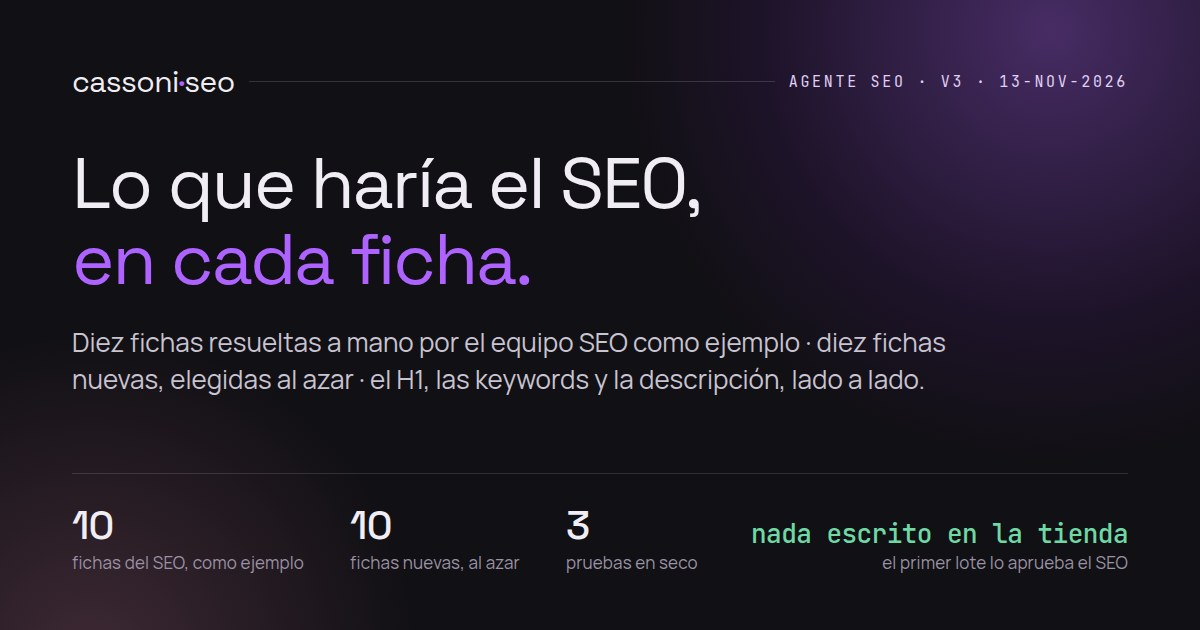
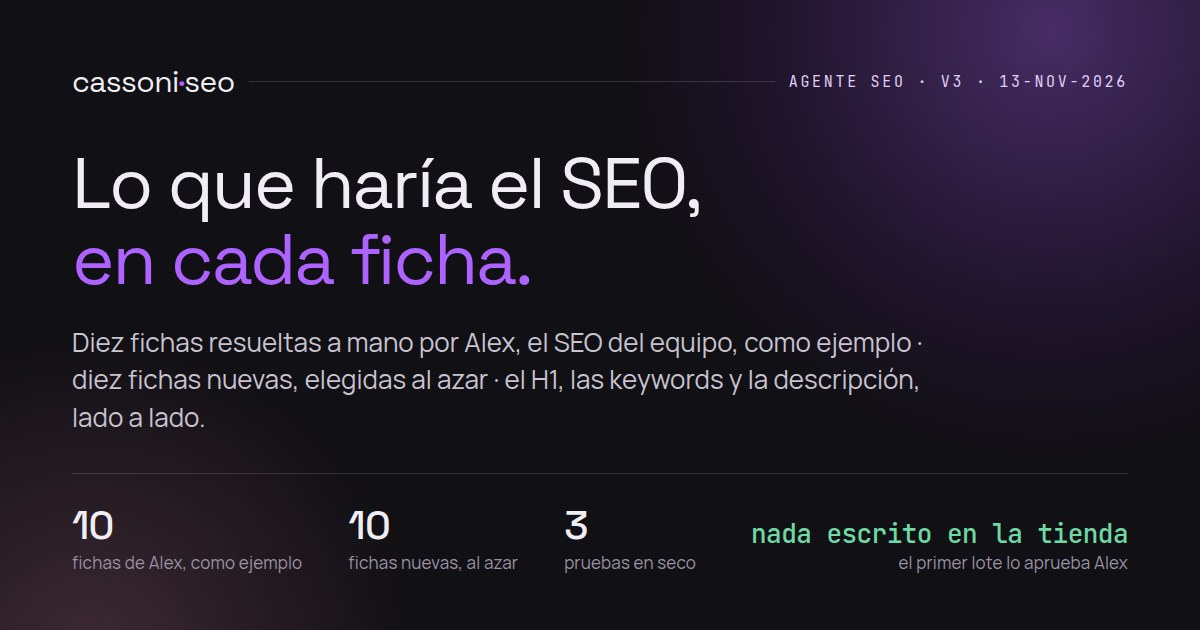
La landing nombra a Alex: ocho frases que decían «el SEO» ahora lo nombran, con candado
Decisión de Antonio para que el material no le hable de lejos al SEO del equipo: se lo nombra en
la primera mención, en el veredicto del 6-nov, en el documento que sirve de ejemplo, en el próximo
paso y en el cierre. En el recorrido y en la lista de comandos queda «el SEO» como rol, donde
repetir el nombre cansa.

- tools/marca/armar_landing.py: las 8 sustituciones van listadas en SUSTITUCIONES, con el texto
  exacto y assert de que cada una aparece una sola vez; el armado falla si alguna cambió.
- docs/landing-agente/index.html: regenerado desde el original (no editado a mano).
- tools/marca/og-landing.html + og.jpg: la tarjeta también lo nombra (bajada y pie del cuarto dato).
- tests/test_og_landing.py: candado nuevo (nombra a Alex >= 8 veces, no vuelve «el equipo SEO
  resolvió» ni «el próximo paso: que el SEO resuelva», y el rol sigue en el recorrido).
  RED guardado en evidencia/2026-11-13-nombre-alex-RED.txt: corrido contra la landing v2 falla 2
  de 5 casos, o sea que el candado puede fallar.
- docs/landing-agente/LEEME.md: queda anotado qué se sustituyó y dónde.

Verificado: verify.sh VERDE (231 tests + 4 de doc + secretos); publicado en
tarsterminal.duckdns.org/cassoni-agente-seo/ con md5 servido idéntico al del repo
(index 56cf874f..., og.jpg c2ed9411...) y el centinela «Alex, el SEO del equipo, resolvió 10
fichas a mano» presente en lo servido.

diff --git a/docs/landing-agente/index.html b/docs/landing-agente/index.html
@@ -4,7 +4,7 @@
 <meta name="viewport" content="width=device-width, initial-scale=1, viewport-fit=cover">
 <meta charset="utf-8">
 <title>Agente SEO Cassoni · v3 — lo que haría el SEO en cada ficha</title>
-<meta name="description" content="El equipo SEO resolvió 10 fichas a mano. El agente aprende de esas fichas y hace lo mismo con diez que nadie había mirado: tres pruebas en seco, las fichas lado a lado.">
+<meta name="description" content="Alex, el SEO del equipo, resolvió 10 fichas a mano. El agente aprende de esas fichas y hace lo mismo con diez que nadie había mirado: tres pruebas en seco, las fichas lado a lado.">
 <meta name="robots" content="noindex">
 <meta name="theme-color" content="#111014">
 <link rel="icon" href="favicon.svg" type="image/svg+xml">
@@ -13,15 +13,15 @@
 <meta property="og:locale" content="es_UY">
 <meta property="og:url" content="https://tarsterminal.duckdns.org/cassoni-agente-seo/">
 <meta property="og:title" content="Agente SEO Cassoni · v3 — lo que haría el SEO en cada ficha">
-<meta property="og:description" content="El equipo SEO resolvió 10 fichas a mano. El agente aprende de esas fichas y hace lo mismo con diez que nadie había mirado: tres pruebas en seco, las fichas lado a lado.">
+<meta property="og:description" content="Alex, el SEO del equipo, resolvió 10 fichas a mano. El agente aprende de esas fichas y hace lo mismo con diez que nadie había mirado: tres pruebas en seco, las fichas lado a lado.">
 <meta property="og:image" content="https://tarsterminal.duckdns.org/cassoni-agente-seo/og.jpg">
 <meta property="og:image:type" content="image/jpeg">
 <meta property="og:image:width" content="1200">
 <meta property="og:image:height" content="630">
-<meta property="og:image:alt" content="Lo que haría el SEO, en cada ficha: diez fichas del SEO contra diez fichas nuevas">
+<meta property="og:image:alt" content="Lo que haría el SEO, en cada ficha: diez fichas de Alex contra diez fichas nuevas">
 <meta name="twitter:card" content="summary_large_image">
 <meta name="twitter:title" content="Agente SEO Cassoni · v3 — lo que haría el SEO en cada ficha">
-<meta name="twitter:description" content="El equipo SEO resolvió 10 fichas a mano. El agente aprende de esas fichas y hace lo mismo con diez que nadie había mirado: tres pruebas en seco, las fichas lado a lado.">
+<meta name="twitter:description" content="Alex, el SEO del equipo, resolvió 10 fichas a mano. El agente aprende de esas fichas y hace lo mismo con diez que nadie había mirado: tres pruebas en seco, las fichas lado a lado.">
 <meta name="twitter:image" content="https://tarsterminal.duckdns.org/cassoni-agente-seo/og.jpg">
 <link rel="preconnect" href="https://fonts.googleapis.com">
 <link rel="stylesheet" href="https://fonts.googleapis.com/css2?family=Manrope:wght@400;500;600;700&family=Space+Grotesk:wght@400;500;600&family=JetBrains+Mono:wght@400;500&display=swap">
@@ -388,7 +388,7 @@ a.ficha-foto { text-decoration: none; }
   <div class="wrap">
     <span class="eyebrow">Agente SEO · fichas de producto · v3 · 13-nov-2026</span>
     <h1>Lo que haría el SEO,<br><span class="v">en cada ficha.</span></h1>
-    <p class="lead">El equipo SEO resolvió 10 fichas a mano: el H1, las palabras clave y la descripción. El agente aprende de esas fichas para hacer lo mismo en las otras 13.000. Esta página muestra cómo, cuánto se parece hoy a lo del SEO y cómo queda en diez fichas que nadie había mirado.</p>
+    <p class="lead">Alex, el SEO del equipo, resolvió 10 fichas a mano: el H1, las palabras clave y la descripción. El agente aprende de esas fichas para hacer lo mismo en las otras 13.000. Esta página muestra cómo, cuánto se parece hoy a lo del SEO y cómo queda en diez fichas que nadie había mirado.</p>
     <div class="btns">
       <a class="btn primary" href="#vs-seo"><span>Agente vs SEO</span><i aria-hidden="true">↘</i></a>
       <a class="btn ghost" href="#nuevas"><span>Diez fichas nuevas</span><i aria-hidden="true">↘</i></a>
@@ -403,7 +403,7 @@ a.ficha-foto { text-decoration: none; }
     <div class="head">
       <span class="eyebrow">Desde la v2</span>
       <h2>Qué cambió <span class="v">y por qué.</span></h2>
-      <p class="lead">La v2 sumaba una oración por keyword a la descripción y elegía las palabras por volumen. El SEO la calificó el 6-nov (2 Crítico, 4 Mal, 3 Aceptable, 1 Bien) y mandó cómo lo haría él en cada ficha. La v3 sigue ese documento.</p>
+      <p class="lead">La v2 sumaba una oración por keyword a la descripción y elegía las palabras por volumen. Alex la calificó el 6-nov (2 Crítico, 4 Mal, 3 Aceptable, 1 Bien) y mandó cómo lo haría él en cada ficha. La v3 sigue ese documento.</p>
     </div>
     <div class="ftable reveal"><div class="ftable-scroll"><table>
       <thead><tr><th></th><th>v2 (4-nov)</th><th>v3 (13-nov)</th></tr></thead>
@@ -447,7 +447,7 @@ a.ficha-foto { text-decoration: none; }
       <p class="lead">Si el agente viera la respuesta del SEO para la ficha que está procesando, la copiaría y la prueba no diría nada sobre el resto del catálogo. Por eso cada ficha se procesa viendo solo las otras nueve.</p>
     </div>
     <div class="aprende">
-      <div class="reveal"><span class="n">EL DOCUMENTO</span><h3>Lo que hizo el SEO</h3><p>Para 10 fichas: H1, 1 a 3 keywords y la descripción completa. Además, para cada una, qué falló en la versión anterior del agente.</p></div>
+      <div class="reveal"><span class="n">EL DOCUMENTO</span><h3>Lo que hizo Alex</h3><p>Para 10 fichas: H1, 1 a 3 keywords y la descripción completa. Además, para cada una, qué falló en la versión anterior del agente.</p></div>
       <div class="reveal"><span class="n">LOS EJEMPLOS</span><h3>Nueve por ficha</h3><p>Al procesar Cruise Sofa, el agente ve cómo el SEO resolvió las otras nueve, nunca Cruise Sofa. Es la misma situación que una ficha nueva del catálogo.</p></div>
       <div class="reveal"><span class="n">LA MEDICIÓN</span><h3>Comparado palabra por palabra</h3><p>H1 idéntico o no, keywords en común (plural y posesivo cuentan igual), estructura y largo de la descripción.</p></div>
     </div>
@@ -502,9 +502,9 @@ a.ficha-foto { text-decoration: none; }
     </div>
     <div class="pend">
       <div class="reveal"><b>H1 y estructura: listos</b><span>La fórmula y la plantilla de la descripción ya son las del SEO. Cuando el H1 difiere, suele ser en una palabra de rasgo.</span></div>
-      <div class="reveal"><b>Keywords: lo que más falta</b><span>Coincide en 7 de las 22 del SEO, una menos que la v2, de la que el SEO partió para armar su lista. Hay criterios que no están escritos y conviene que el SEO los confirme.</span></div>
-      <div class="reveal"><b>Próximo paso</b><span>Que el SEO resuelva 10 fichas más con el mismo formato. Sirven como ejemplos nuevos y como segunda prueba.</span></div>
-      <div class="reveal"><b>Nada escrito en la tienda</b><span>Todas las corridas son en seco. El primer lote real lo aprueba el SEO.</span></div>
+      <div class="reveal"><b>Keywords: lo que más falta</b><span>Coincide en 7 de las 22 del SEO, una menos que la v2, de la que Alex partió para armar su lista. Hay criterios que no están escritos y conviene que el SEO los confirme.</span></div>
+      <div class="reveal"><b>Próximo paso</b><span>Que Alex resuelva 10 fichas más con el mismo formato. Sirven como ejemplos nuevos y como segunda prueba.</span></div>
+      <div class="reveal"><b>Nada escrito en la tienda</b><span>Todas las corridas son en seco. El primer lote real lo aprueba Alex.</span></div>
     </div>
   </div>
 </section>
@@ -580,7 +580,7 @@ a.ficha-foto { text-decoration: none; }
   ].map(s => `<div class="stat"><b>${s[0]}</b><small>${s[1]}</small></div>`).join("");
 
   // prueba 1
-  $("#vs-lead").textContent = `Tres versiones del agente sobre las 10 fichas que resolvió el SEO. La v2 es la que el SEO calificó el 6-nov; la v3.2, la primera corrección; la v4.1, la que imita su documento.`;
+  $("#vs-lead").textContent = `Tres versiones del agente sobre las 10 fichas que resolvió Alex. La v2 es la que Alex calificó el 6-nov; la v3.2, la primera corrección; la v4.1, la que imita su documento.`;
   const filas = [
     ["H1 idéntico al del SEO", `${D.v2.h1_iguales} de 10`, `${B.h1_iguales} de 10`, `${A.h1_iguales} de 10`],
     ["Palabras del H1 en común", "—", pct(B.h1_parecido_promedio), pct(A.h1_parecido_promedio)],
@@ -590,7 +590,7 @@ a.ficha-foto { text-decoration: none; }
   ];
   $("#cmp").innerHTML = `<div class="cmp-row h" role="row"><div>Medida</div><div>v2</div><div>v3.2</div><div>v4.1</div></div>` +
     filas.map(f => `<div class="cmp-row" role="row"><div>${esc(f[0])}</div><div class="n">${esc(f[1])}</div><div class="n">${esc(f[2])}</div><div class="n now">${esc(f[3])}</div></div>`).join("");
-  $("#nota-v2").textContent = `Sobre las keywords: el SEO armó su lista partiendo de la que le propuso la v2. Conservó ${D.v2.keywords_en_comun} de sus keywords (incluso «wood table» y «marble table», que en su devolución marcó como búsquedas de categoría) y sumó variantes del nombre y marca + tipo. Por eso la v2 coincide tanto. La v4.1 acierta en ${A.keywords_en_comun}, sobre todo en lo que el SEO sumó. Lo que la v2 hacía mal era meter cada keyword con una oración forzada, y eso ya no pasa.`;
+  $("#nota-v2").textContent = `Sobre las keywords: Alex armó su lista partiendo de la que le propuso la v2. Conservó ${D.v2.keywords_en_comun} de sus keywords (incluso «wood table» y «marble table», que en su devolución marcó como búsquedas de categoría) y sumó variantes del nombre y marca + tipo. Por eso la v2 coincide tanto. La v4.1 acierta en ${A.keywords_en_comun}, sobre todo en lo que el SEO sumó. Lo que la v2 hacía mal era meter cada keyword con una oración forzada, y eso ya no pasa.`;
   const foto = (url, alt, cls) => {
     const src = (D.fotos || {})[url] || "";
     return `<a class="${cls}" href="${esc(url)}" target="_blank" rel="noopener" title="Ver en cassoni.com">${src ? `<img src="${src}" alt="${esc(alt)}" loading="lazy">` : "<span>sin foto</span>"}</a>`;

diff --git a/tools/marca/og-landing.html b/tools/marca/og-landing.html
@@ -76,12 +76,12 @@
       <div class="eyebrow">Agente SEO · v3 · 13-nov-2026</div>
     </div>
     <h1>Lo que haría el SEO,<br><span class="v">en cada ficha.</span></h1>
-    <p class="lead">Diez fichas resueltas a mano por el equipo SEO como ejemplo · diez fichas nuevas, elegidas al azar · el H1, las keywords y la descripción, lado a lado.</p>
+    <p class="lead">Diez fichas resueltas a mano por Alex, el SEO del equipo, como ejemplo · diez fichas nuevas, elegidas al azar · el H1, las keywords y la descripción, lado a lado.</p>
     <div class="stats">
-      <div class="stat"><b>10</b><small>fichas del SEO, como ejemplo</small></div>
+      <div class="stat"><b>10</b><small>fichas de Alex, como ejemplo</small></div>
       <div class="stat"><b>10</b><small>fichas nuevas, al azar</small></div>
       <div class="stat"><b>3</b><small>pruebas en seco</small></div>
-      <div class="stat"><b>nada escrito en la tienda</b><small>el primer lote lo aprueba el SEO</small></div>
+      <div class="stat"><b>nada escrito en la tienda</b><small>el primer lote lo aprueba Alex</small></div>
     </div>
   </div>
 </body>

diff --git a/tools/marca/armar_landing.py b/tools/marca/armar_landing.py
@@ -4,19 +4,43 @@
 Qué hace, exactamente (y nada más):
   1. mete en <head> las etiquetas que el archivo del v3 no traía (descripción, og:*,
      twitter:*, favicon, robots noindex) — sin ellas el link se comparte sin tarjeta;
-  2. cierra <head> y abre/cierra <body>: el archivo venía sin esos cierres y el
+  2. nombra a Alex donde la página decía «el SEO» a secas (tabla SUSTITUCIONES, abajo);
+  3. cierra <head> y abre/cierra <body>: el archivo venía sin esos cierres y el
      navegador los inventaba al encontrar el <nav>.
 
-No toca el contenido de la página ni una palabra.
+Ninguna otra palabra de la página se toca: cada sustitución está listada con su texto
+exacto y el armado falla si alguna no aparece una sola vez.
 """
 import re
 import sys
 from pathlib import Path
 
 URL = "https://tarsterminal.duckdns.org/cassoni-agente-seo/"
-DESC = ("El equipo SEO resolvió 10 fichas a mano. El agente aprende de esas fichas y hace lo "
-        "mismo con diez que nadie había mirado: tres pruebas en seco, las fichas lado a lado.")
+DESC = ("Alex, el SEO del equipo, resolvió 10 fichas a mano. El agente aprende de esas fichas y "
+        "hace lo mismo con diez que nadie había mirado: tres pruebas en seco, las fichas lado a lado.")
 TITULO = "Agente SEO Cassoni · v3 — lo que haría el SEO en cada ficha"
+
+# Dónde la página nombra a Alex y no «el SEO»: la primera mención (el hero), el veredicto del
+# 6-nov, el documento que sirve de ejemplo, el próximo paso y el cierre. En el resto —los pasos
+# del recorrido, los comandos— queda «el SEO» como rol, para no repetir el nombre doce veces.
+SUSTITUCIONES = [
+    ("El equipo SEO resolvió 10 fichas a mano",
+     "Alex, el SEO del equipo, resolvió 10 fichas a mano"),
+    ("El SEO la calificó el 6-nov",
+     "Alex la calificó el 6-nov"),
+    ("<h3>Lo que hizo el SEO</h3>",
+     "<h3>Lo que hizo Alex</h3>"),
+    ("Que el SEO resuelva 10 fichas más con el mismo formato.",
+     "Que Alex resuelva 10 fichas más con el mismo formato."),
+    ("El primer lote real lo aprueba el SEO.",
+     "El primer lote real lo aprueba Alex."),
+    ("una menos que la v2, de la que el SEO partió para armar su lista",
+     "una menos que la v2, de la que Alex partió para armar su lista"),
+    ("las 10 fichas que resolvió el SEO. La v2 es la que el SEO calificó el 6-nov",
+     "las 10 fichas que resolvió Alex. La v2 es la que Alex calificó el 6-nov"),
+    ("Sobre las keywords: el SEO armó su lista partiendo de la que le propuso",
+     "Sobre las keywords: Alex armó su lista partiendo de la que le propuso"),
+]
 
 CABEZA = f"""<meta charset="utf-8">
 <title>{TITULO}</title>
@@ -34,7 +58,7 @@ CABEZA = f"""<meta charset="utf-8">
 <meta property="og:image:type" content="image/jpeg">
 <meta property="og:image:width" content="1200">
 <meta property="og:image:height" content="630">
-<meta property="og:image:alt" content="Lo que haría el SEO, en cada ficha: diez fichas del SEO contra diez fichas nuevas">
+<meta property="og:image:alt" content="Lo que haría el SEO, en cada ficha: diez fichas de Alex contra diez fichas nuevas">
 <meta name="twitter:card" content="summary_large_image">
 <meta name="twitter:title" content="{TITULO}">
 <meta name="twitter:description" content="{DESC}">
@@ -51,14 +75,25 @@ def armar(origen: Path, destino: Path) -> None:
                    CABEZA, s, count=1)
     assert n == 1, "no se encontró el bloque de cabecera esperado en el v3"
 
-    # 2. cierres estructurales que el archivo no traía
+    # 2. Alex en lugar de «el SEO», sólo en los lugares listados
+    for viejo, nuevo in SUSTITUCIONES:
+        veces = s.count(viejo)
+        assert veces == 1, f"«{viejo}» aparece {veces} veces (se esperaba 1): revisar antes de publicar"
+        s = s.replace(viejo, nuevo)
+
+    # 3. cierres estructurales que el archivo no traía
     s, n = re.subn(r"</style>\n\n(<nav class=\"nav\")", r"</style>\n</head>\n<body>\n\n\1", s, count=1)
     assert n == 1, "no se encontró el fin del <style> antes del <nav>"
     assert s.rstrip().endswith("</script>"), "el archivo no termina en </script>"
     s = s.rstrip() + "\n</body>\n</html>\n"
 
+    # control: el nombre tiene que quedar, y «el SEO» tiene que seguir existiendo como rol
+    assert "Alex" in s, "no quedó ninguna mención a Alex"
+    assert s.count("Alex") >= len(SUSTITUCIONES), "faltan menciones a Alex"
+
     destino.parent.mkdir(parents=True, exist_ok=True)
     destino.write_text(s, encoding="utf-8")
+    print(f"Alex nombrado {s.count('Alex')} veces · «el SEO» {s.count('el SEO')} veces como rol")
 
 
 if __name__ == "__main__":

diff --git a/tests/test_og_landing.py b/tests/test_og_landing.py
@@ -84,3 +84,22 @@ def test_no_publica_notas_internas():
     texto = _html()
     for prohibido in ("sin saldo", "redactó Claude", "en lugar de DeepSeek"):
         assert prohibido not in texto, f"la landing publicada filtra una nota interna: «{prohibido}»"
+
+
+def test_nombra_a_alex_y_no_a_un_equipo_anonimo():
+    """La página la lee Alex: se lo nombra. El candado evita que un HTML nuevo vuelva a la
+    fórmula distante («el equipo SEO resolvió») sin que nadie lo note.
+
+    Se lo nombra donde importa —la primera mención, el veredicto del 6-nov, el documento de
+    ejemplo, el próximo paso y el cierre— y se deja «el SEO» como rol en el recorrido y en los
+    comandos, que es donde repetir el nombre cansa.
+    """
+    texto = _html()
+    assert texto.count("Alex") >= 8, f"la landing dejó de nombrar a Alex ({texto.count('Alex')} menciones)"
+    assert "El equipo SEO resolvió" not in texto, "volvió la fórmula distante «el equipo SEO»"
+    # El cierre es la frase exacta del bloque «Nada escrito en la tienda». El encabezado del
+    # comando «Escribir de verdad (lo aprueba el SEO)» dice lo mismo pero es el rol en la lista de
+    # comandos, y ahí el nombre sobra: se pide la frase entera, no el fragmento.
+    assert "El primer lote real lo aprueba el SEO." not in texto, "el cierre volvió a decir «el SEO» en vez de Alex"
+    assert "Que el SEO resuelva" not in texto, "el próximo paso volvió a decir «el SEO»"
+    assert "el SEO" in texto, "se perdió el rol en el recorrido y en los comandos"

diff --git a/docs/landing-agente/LEEME.md b/docs/landing-agente/LEEME.md
@@ -34,6 +34,11 @@ versión vieja, el link se comparte con `?v=<algo>` la primera vez.
 
 ## Antes de compartirla afuera
 
+- **La página nombra a Alex** (el SEO del equipo) en la primera mención, en el veredicto del 6-nov,
+  en el documento que sirve de ejemplo, en el próximo paso y en el cierre; en el recorrido y en los
+  comandos queda «el SEO» como rol. Esas 8 sustituciones están listadas en `SUSTITUCIONES`
+  (`tools/marca/armar_landing.py`) y tienen candado: si un HTML nuevo vuelve a decir «el equipo SEO
+  resolvió», el test falla.
 - **Todas las corridas son en seco**: no se escribió nada en WooCommerce. La página lo dice en
   «Nada escrito en la tienda» y en el pie; si algún día se corre con `--write`, esa frase deja de
   ser cierta.
